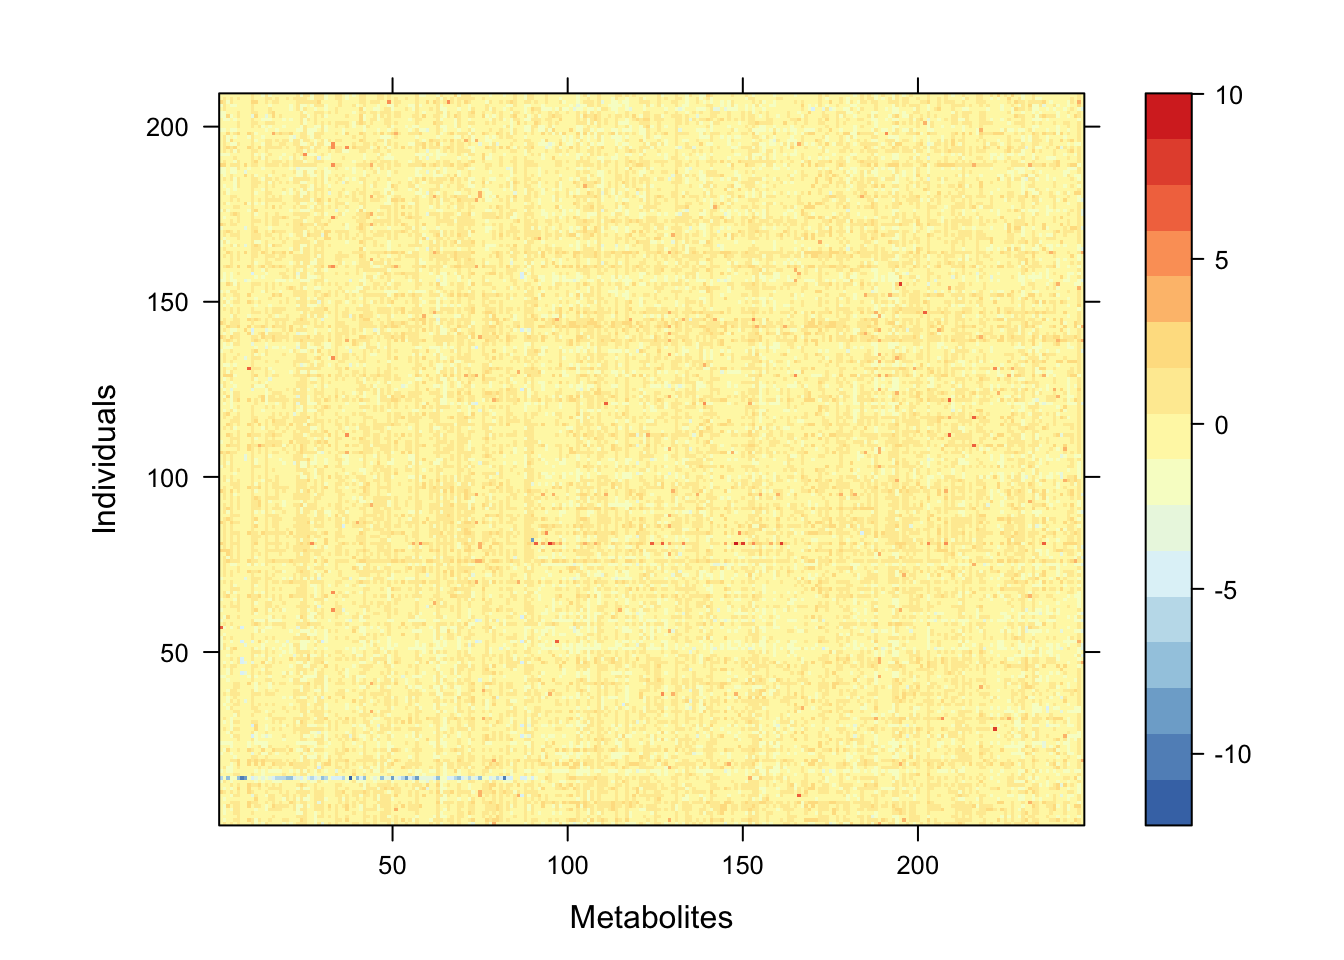
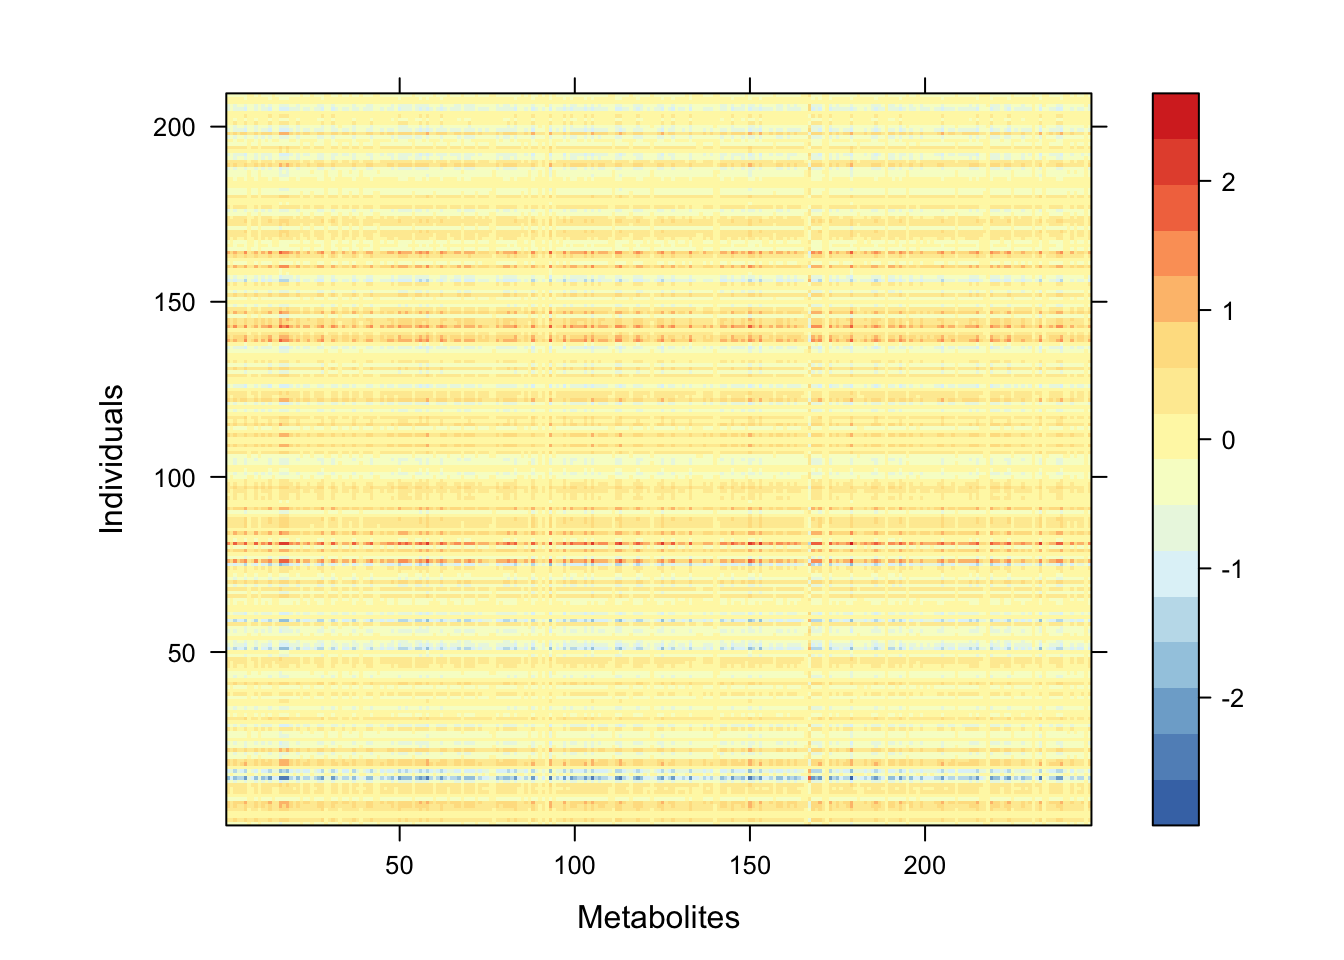
Build site.

diff --git a/docs/first-analysis.html b/docs/first-analysis.html
@@ -432,10 +432,10 @@ This reproducible <a href="http://rmarkdown.rstudio.com">R Markdown</a> analysis
 <div class="panel panel-default">
 <div class="panel-heading">
 <p class="panel-title">
-<a data-toggle="collapse" data-parent="#workflowr-checks" href="#strongRepositoryversionstrongahrefhttpsgithubcomsurbutKKScardiologytree0ef2ead404cb796337e884c8a300704dc4a3efa0targetblank0ef2eada"> <span class="glyphicon glyphicon-ok text-success" aria-hidden="true"></span> <strong>Repository version:</strong> <a href="https://github.com/surbut/KKScardiology/tree/0ef2ead404cb796337e884c8a300704dc4a3efa0" target="_blank">0ef2ead</a> </a>
+<a data-toggle="collapse" data-parent="#workflowr-checks" href="#strongRepositoryversionstrongahrefhttpsgithubcomsurbutKKScardiologytreefb429a74cc07c70925f70ffc7426aac6728daa71targetblankfb429a7a"> <span class="glyphicon glyphicon-ok text-success" aria-hidden="true"></span> <strong>Repository version:</strong> <a href="https://github.com/surbut/KKScardiology/tree/fb429a74cc07c70925f70ffc7426aac6728daa71" target="_blank">fb429a7</a> </a>
 </p>
 </div>
[2 lines of base64/hex data omitted]
 <div class="panel-body">
 <p>
 Great! You are using Git for version control. Tracking code development and connecting the code version to the results is critical for reproducibility. The version displayed above was the version of the Git repository at the time these results were generated. <br><br> Note that you need to be careful to ensure that all relevant files for the analysis have been committed to Git prior to generating the results (you can use <code>wflow_publish</code> or <code>wflow_git_commit</code>). workflowr only checks the R Markdown file, but you know if there are other scripts or data files that it depends on. Below is the status of the Git repository when the results were generated:
@@ -443,6 +443,7 @@ Great! You are using Git for version control. Tracking code development and conn
 <pre><code>
 Ignored files:
     Ignored:    .DS_Store
+    Ignored:    analysis/.DS_Store
     Ignored:    data/.DS_Store
 
 </code></pre>
@@ -482,6 +483,40 @@ Message
 </tr>
 </thead>
 <tbody>
+<tr>
+<td>
+Rmd
+</td>
+<td>
+<a href="https://github.com/surbut/KKScardiology/blob/fb429a74cc07c70925f70ffc7426aac6728daa71/analysis/first-analysis.Rmd" target="_blank">fb429a7</a>
+</td>
+<td>
+Sarah Urbut
+</td>
+<td>
+2019-07-10
+</td>
+<td>
+wflow_publish(“analysis/first-analysis.rmd”)
+</td>
+</tr>
+<tr>
+<td>
+html
+</td>
+<td>
+<a href="https://rawcdn.githack.com/surbut/KKScardiology/6fa3037b58e5ef352cd5c311b82f124780a76dbf/docs/first-analysis.html" target="_blank">6fa3037</a>
+</td>
+<td>
+Sarah Urbut
+</td>
+<td>
+2019-07-10
+</td>
+<td>
+Build site.
+</td>
+</tr>
 <tr>
 <td>
 Rmd
@@ -644,15 +679,20 @@ clrs &lt;- colorRampPalette(rev(c(&quot;#D73027&quot;,&quot;#FC8D59&quot;,&quot;
 library(&quot;lattice&quot;)
 X=scale(X,center=TRUE,scale=TRUE)
 
-rownames(X)=colnames(X)=NULL
-print(levelplot(t(X),col.regions = clrs,xlab = &quot;Metabolites&quot;,ylab = &quot;Individuals&quot;,colorkey = TRUE))</code></pre>
-<p><img src="figure/first-analysis.Rmd/unnamed-chunk-1-1.png" width="672" style="display: block; margin: auto;" /></p>
+rownames(X)=colnames(X)=NULL</code></pre>
+<p>Let’s look at the principal directions of variation:</p>
+<pre class="r"><code>#Take svd
+svd.X = svd(X)
+u = svd.X$u; v=svd.X$v; d=svd.X$d
+plot(d^2/sum(d^2),lty=3,pch=10,lwd=1,cex=0.5,ylab=&quot;Proportion Variation Explained&quot;)
+abline(h=0.01)</code></pre>
+<p><img src="figure/first-analysis.Rmd/unnamed-chunk-2-1.png" width="672" style="display: block; margin: auto;" /></p>
 <p>
-<button type="button" class="btn btn-default btn-xs btn-workflowr btn-workflowr-fig" data-toggle="collapse" data-target="#fig-unnamed-chunk-1-1">
-Past versions of unnamed-chunk-1-1.png
+<button type="button" class="btn btn-default btn-xs btn-workflowr btn-workflowr-fig" data-toggle="collapse" data-target="#fig-unnamed-chunk-2-1">
+Past versions of unnamed-chunk-2-1.png
 </button>
 </p>
-<div id="fig-unnamed-chunk-1-1" class="collapse">
+<div id="fig-unnamed-chunk-2-1" class="collapse">
 <div class="table-responsive">
 <table class="table table-condensed table-hover">
 <thead>
@@ -671,7 +711,7 @@ Date
 <tbody>
 <tr>
 <td>
-<a href="https://github.com/surbut/KKScardiology/blob/0e2a7b0071049d055a91d307b944fd91570107d4/docs/figure/first-analysis.Rmd/unnamed-chunk-1-1.png" target="_blank">0e2a7b0</a>
+<a href="https://github.com/surbut/KKScardiology/blob/6fa3037b58e5ef352cd5c311b82f124780a76dbf/docs/figure/first-analysis.Rmd/unnamed-chunk-2-1.png" target="_blank">6fa3037</a>
 </td>
 <td>
 Sarah Urbut
@@ -684,21 +724,8 @@ Sarah Urbut
 </table>
 </div>
 </div>
-<p>Let’s look at the principal directions of variation:</p>
-<pre class="r"><code>#Take svd
-svd.X = svd(X)
-u = svd.X$u; v=svd.X$v; d=svd.X$d
-plot(d^2/sum(d^2),lty=3,pch=10,lwd=1,cex=0.5,ylab=&quot;Proportion Variation Explained&quot;)
-abline(h=0.01)</code></pre>
-<p><img src="figure/first-analysis.Rmd/unnamed-chunk-2-1.png" width="672" style="display: block; margin: auto;" /></p>
 <p>We can see that after column centering and scaling such that the metabolites are on the same scale and zero centered (so the first PC doesn’t just capture the ‘average’ direction), about 18 components explain greater than 0.01 of the variation. Let’s examibe the dimension reduction of this matrix.</p>
-<pre class="r"><code>print(levelplot(t(X),col.regions = clrs,xlab = &quot;Metabolites&quot;,ylab = &quot;Individuals&quot;,colorkey = TRUE))</code></pre>
-<p><img src="figure/first-analysis.Rmd/unnamed-chunk-3-1.png" width="672" style="display: block; margin: auto;" /></p>
-<pre class="r"><code>layhow = as.matrix(c(rep(1,5),rep(2,5),rep(3,5),rep(4,5),rep(5,5),rep(6,5)))
-layout(t(layhow))
-zlim = c(min(X),max(X))
-
-#1st principal matrix 
+<pre class="r"><code>#1st principal matrix 
 pcm1 = d[1]*matrix(u[,1])%*%t(matrix(v[,1]))
 
 #2nd principal matrix 
@@ -708,13 +735,161 @@ pcm2 = d[2]*matrix(u[,2])%*%t(matrix(v[,2]))
 pcm3 = d[3]*matrix(u[,3])%*%t(matrix(v[,3]))
 
 print(levelplot(t(X),col.regions = clrs,xlab = &quot;Metabolites&quot;,ylab = &quot;Individuals&quot;,colorkey = TRUE))</code></pre>
-<p><img src="figure/first-analysis.Rmd/unnamed-chunk-3-2.png" width="672" style="display: block; margin: auto;" /></p>
+<p><img src="figure/first-analysis.Rmd/unnamed-chunk-3-1.png" width="672" style="display: block; margin: auto;" /></p>
+<p>
+<button type="button" class="btn btn-default btn-xs btn-workflowr btn-workflowr-fig" data-toggle="collapse" data-target="#fig-unnamed-chunk-3-1">
+Past versions of unnamed-chunk-3-1.png
+</button>
+</p>
+<div id="fig-unnamed-chunk-3-1" class="collapse">
+<div class="table-responsive">
+<table class="table table-condensed table-hover">
+<thead>
+<tr>
+<th>
+Version
+</th>
+<th>
+Author
+</th>
+<th>
+Date
+</th>
+</tr>
+</thead>
+<tbody>
+<tr>
+<td>
+<a href="https://github.com/surbut/KKScardiology/blob/6fa3037b58e5ef352cd5c311b82f124780a76dbf/docs/figure/first-analysis.Rmd/unnamed-chunk-3-1.png" target="_blank">6fa3037</a>
+</td>
+<td>
+Sarah Urbut
+</td>
+<td>
+2019-07-10
+</td>
+</tr>
+</tbody>
+</table>
+</div>
+</div>
 <pre class="r"><code>print(levelplot(t(pcm1),col.regions = clrs,xlab = &quot;Metabolites&quot;,ylab = &quot;Individuals&quot;,colorkey = TRUE))</code></pre>
-<p><img src="figure/first-analysis.Rmd/unnamed-chunk-3-3.png" width="672" style="display: block; margin: auto;" /></p>
+<p><img src="figure/first-analysis.Rmd/unnamed-chunk-3-2.png" width="672" style="display: block; margin: auto;" /></p>
+<p>
+<button type="button" class="btn btn-default btn-xs btn-workflowr btn-workflowr-fig" data-toggle="collapse" data-target="#fig-unnamed-chunk-3-2">
+Past versions of unnamed-chunk-3-2.png
+</button>
+</p>
+<div id="fig-unnamed-chunk-3-2" class="collapse">
+<div class="table-responsive">
+<table class="table table-condensed table-hover">
+<thead>
+<tr>
+<th>
+Version
+</th>
+<th>
+Author
+</th>
+<th>
+Date
+</th>
+</tr>
+</thead>
+<tbody>
+<tr>
+<td>
+<a href="https://github.com/surbut/KKScardiology/blob/6fa3037b58e5ef352cd5c311b82f124780a76dbf/docs/figure/first-analysis.Rmd/unnamed-chunk-3-2.png" target="_blank">6fa3037</a>
+</td>
+<td>
+Sarah Urbut
+</td>
+<td>
+2019-07-10
+</td>
+</tr>
+</tbody>
+</table>
+</div>
+</div>
 <pre class="r"><code>print(levelplot(t(pcm2),col.regions = clrs,xlab = &quot;Metabolites&quot;,ylab = &quot;Individuals&quot;,colorkey = TRUE))</code></pre>
-<p><img src="figure/first-analysis.Rmd/unnamed-chunk-3-4.png" width="672" style="display: block; margin: auto;" /></p>
+<p><img src="figure/first-analysis.Rmd/unnamed-chunk-3-3.png" width="672" style="display: block; margin: auto;" /></p>
+<p>
+<button type="button" class="btn btn-default btn-xs btn-workflowr btn-workflowr-fig" data-toggle="collapse" data-target="#fig-unnamed-chunk-3-3">
+Past versions of unnamed-chunk-3-3.png
+</button>
+</p>
+<div id="fig-unnamed-chunk-3-3" class="collapse">
+<div class="table-responsive">
+<table class="table table-condensed table-hover">
+<thead>
+<tr>
+<th>
+Version
+</th>
+<th>
+Author
+</th>
+<th>
+Date
+</th>
+</tr>
+</thead>
+<tbody>
+<tr>
+<td>
+<a href="https://github.com/surbut/KKScardiology/blob/6fa3037b58e5ef352cd5c311b82f124780a76dbf/docs/figure/first-analysis.Rmd/unnamed-chunk-3-3.png" target="_blank">6fa3037</a>
+</td>
+<td>
+Sarah Urbut
+</td>
+<td>
+2019-07-10
+</td>
+</tr>
+</tbody>
+</table>
+</div>
+</div>
 <pre class="r"><code>print(levelplot(t(pcm3),col.regions = clrs,xlab = &quot;Metabolites&quot;,ylab = &quot;Individuals&quot;,colorkey = TRUE))</code></pre>
-<p><img src="figure/first-analysis.Rmd/unnamed-chunk-3-5.png" width="672" style="display: block; margin: auto;" /></p>
+<p><img src="figure/first-analysis.Rmd/unnamed-chunk-3-4.png" width="672" style="display: block; margin: auto;" /></p>
+<p>
+<button type="button" class="btn btn-default btn-xs btn-workflowr btn-workflowr-fig" data-toggle="collapse" data-target="#fig-unnamed-chunk-3-4">
+Past versions of unnamed-chunk-3-4.png
+</button>
+</p>
+<div id="fig-unnamed-chunk-3-4" class="collapse">
+<div class="table-responsive">
+<table class="table table-condensed table-hover">
+<thead>
+<tr>
+<th>
+Version
+</th>
+<th>
+Author
+</th>
+<th>
+Date
+</th>
+</tr>
+</thead>
+<tbody>
+<tr>
+<td>
+<a href="https://github.com/surbut/KKScardiology/blob/6fa3037b58e5ef352cd5c311b82f124780a76dbf/docs/figure/first-analysis.Rmd/unnamed-chunk-3-4.png" target="_blank">6fa3037</a>
+</td>
+<td>
+Sarah Urbut
+</td>
+<td>
+2019-07-10
+</td>
+</tr>
+</tbody>
+</table>
+</div>
+</div>
 <br>
 <p>
 <button type="button" class="btn btn-default btn-workflowr btn-workflowr-sessioninfo" data-toggle="collapse" data-target="#workflowr-sessioninfo" style="display: block;">
